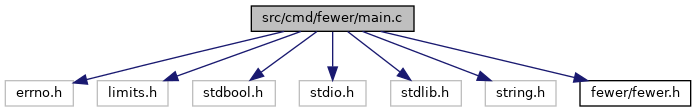
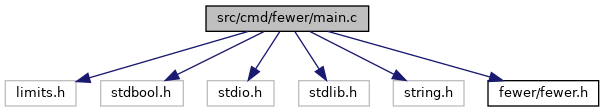
Travis build: 51
Commit: ce00d6d35ad0ffc2abccac958774e3efaf1d5b7c

Changed region(s): [[0.0, 0.2679, 1.0, 0.9643], [0.3278, 0.0268, 0.6258, 0.2946]]

diff --git a/examples/fewer/fewer_8h.html b/examples/fewer/fewer_8h.html
@@ -86,9 +86,9 @@ This graph shows which files directly or indirectly include this file:</div>
 <table class="memberdecls">
 <tr class="heading"><td colspan="2"><h2 class="groupheader"><a name="func-members"></a>
 Functions</h2></td></tr>
-<tr class="memitem:a0394fd76698db06792c40dd56e7828c9"><td class="memItemLeft" align="right" valign="top">void&#160;</td><td class="memItemRight" valign="bottom"><a class="el" href="fewer_8h.html#a0394fd76698db06792c40dd56e7828c9">render_boi</a> (char *hexpair, unsigned char c)</td></tr>
-<tr class="memdesc:a0394fd76698db06792c40dd56e7828c9"><td class="mdescLeft">&#160;</td><td class="mdescRight">render_boi formats a hexadecimal pair.  <a href="fewer_8h.html#a0394fd76698db06792c40dd56e7828c9">More...</a><br /></td></tr>
-<tr class="separator:a0394fd76698db06792c40dd56e7828c9"><td class="memSeparator" colspan="2">&#160;</td></tr>
+<tr class="memitem:a7e70bab3f533afb7a86574edac155153"><td class="memItemLeft" align="right" valign="top">int&#160;</td><td class="memItemRight" valign="bottom"><a class="el" href="fewer_8h.html#a7e70bab3f533afb7a86574edac155153">render_boi</a> (char *hexpair, unsigned char c)</td></tr>
+<tr class="memdesc:a7e70bab3f533afb7a86574edac155153"><td class="mdescLeft">&#160;</td><td class="mdescRight">render_boi formats a hexadecimal pair.  <a href="fewer_8h.html#a7e70bab3f533afb7a86574edac155153">More...</a><br /></td></tr>
+<tr class="separator:a7e70bab3f533afb7a86574edac155153"><td class="memSeparator" colspan="2">&#160;</td></tr>
 <tr class="memitem:a2279a176f40d204a6c0bba5550c07e35"><td class="memItemLeft" align="right" valign="top">int&#160;</td><td class="memItemRight" valign="bottom"><a class="el" href="fewer_8h.html#a2279a176f40d204a6c0bba5550c07e35">parse_boi</a> (const char *hexpair)</td></tr>
 <tr class="memdesc:a2279a176f40d204a6c0bba5550c07e35"><td class="mdescLeft">&#160;</td><td class="mdescRight">parse_boi reads a hexadecimal pair.  <a href="fewer_8h.html#a2279a176f40d204a6c0bba5550c07e35">More...</a><br /></td></tr>
 <tr class="separator:a2279a176f40d204a6c0bba5550c07e35"><td class="memSeparator" colspan="2">&#160;</td></tr>
@@ -113,22 +113,22 @@ Functions</h2></td></tr>
 <p>parse_boi reads a hexadecimal pair. </p>
 <dl class="params"><dt>Parameters</dt><dd>
   <table class="params">
-    <tr><td class="paramname">hexpair</td><td>hexadecimal pair (2 characters + NULL terminator)</td></tr>
+    <tr><td class="paramname">hexpair</td><td>hexadecimal pair (2 characters + NULL terminator) </td></tr>
   </table>
   </dd>
 </dl>
-<dl class="section return"><dt>Returns</dt><dd>value. -1 indicates an error. </dd></dl>
+<dl class="section return"><dt>Returns</dt><dd>negative value on error, or else a value </dd></dl>
 
 </div>
 </div>
-<a id="a0394fd76698db06792c40dd56e7828c9"></a>
-<h2 class="memtitle"><span class="permalink"><a href="#a0394fd76698db06792c40dd56e7828c9">&#9670;&nbsp;</a></span>render_boi()</h2>
+<a id="a7e70bab3f533afb7a86574edac155153"></a>
+<h2 class="memtitle"><span class="permalink"><a href="#a7e70bab3f533afb7a86574edac155153">&#9670;&nbsp;</a></span>render_boi()</h2>
 
 <div class="memitem">
 <div class="memproto">
       <table class="memname">
         <tr>
-          <td class="memname">void render_boi </td>
+          <td class="memname">int render_boi </td>
           <td>(</td>
           <td class="paramtype">char *&#160;</td>
           <td class="paramname"><em>hexpair</em>, </td>
@@ -151,10 +151,11 @@ Functions</h2></td></tr>
 <dl class="params"><dt>Parameters</dt><dd>
   <table class="params">
     <tr><td class="paramname">hexpair</td><td>buffer (3 bytes) </td></tr>
-    <tr><td class="paramname">c</td><td>value</td></tr>
+    <tr><td class="paramname">c</td><td>value </td></tr>
   </table>
   </dd>
 </dl>
+<dl class="section return"><dt>Returns</dt><dd>negative value on error</dd></dl>
 <dl class="section copyright"><dt>Copyright</dt><dd>2020 YelloSoft </dd></dl>
 
 </div>

diff --git a/examples/fewer/fewer_8c.html b/examples/fewer/fewer_8c.html
@@ -90,9 +90,9 @@ Include dependency graph for fewer.c:</div>
 </div><table class="memberdecls">
 <tr class="heading"><td colspan="2"><h2 class="groupheader"><a name="func-members"></a>
 Functions</h2></td></tr>
-<tr class="memitem:a0394fd76698db06792c40dd56e7828c9"><td class="memItemLeft" align="right" valign="top">void&#160;</td><td class="memItemRight" valign="bottom"><a class="el" href="fewer_8c.html#a0394fd76698db06792c40dd56e7828c9">render_boi</a> (char *hexpair, unsigned char c)</td></tr>
-<tr class="memdesc:a0394fd76698db06792c40dd56e7828c9"><td class="mdescLeft">&#160;</td><td class="mdescRight">render_boi formats a hexadecimal pair.  <a href="fewer_8c.html#a0394fd76698db06792c40dd56e7828c9">More...</a><br /></td></tr>
-<tr class="separator:a0394fd76698db06792c40dd56e7828c9"><td class="memSeparator" colspan="2">&#160;</td></tr>
+<tr class="memitem:a7e70bab3f533afb7a86574edac155153"><td class="memItemLeft" align="right" valign="top">int&#160;</td><td class="memItemRight" valign="bottom"><a class="el" href="fewer_8c.html#a7e70bab3f533afb7a86574edac155153">render_boi</a> (char *hexpair, unsigned char c)</td></tr>
+<tr class="memdesc:a7e70bab3f533afb7a86574edac155153"><td class="mdescLeft">&#160;</td><td class="mdescRight">render_boi formats a hexadecimal pair.  <a href="fewer_8c.html#a7e70bab3f533afb7a86574edac155153">More...</a><br /></td></tr>
+<tr class="separator:a7e70bab3f533afb7a86574edac155153"><td class="memSeparator" colspan="2">&#160;</td></tr>
 <tr class="memitem:a2279a176f40d204a6c0bba5550c07e35"><td class="memItemLeft" align="right" valign="top">int&#160;</td><td class="memItemRight" valign="bottom"><a class="el" href="fewer_8c.html#a2279a176f40d204a6c0bba5550c07e35">parse_boi</a> (const char *hexpair)</td></tr>
 <tr class="memdesc:a2279a176f40d204a6c0bba5550c07e35"><td class="mdescLeft">&#160;</td><td class="mdescRight">parse_boi reads a hexadecimal pair.  <a href="fewer_8c.html#a2279a176f40d204a6c0bba5550c07e35">More...</a><br /></td></tr>
 <tr class="separator:a2279a176f40d204a6c0bba5550c07e35"><td class="memSeparator" colspan="2">&#160;</td></tr>
@@ -117,22 +117,22 @@ Functions</h2></td></tr>
 <p>parse_boi reads a hexadecimal pair. </p>
 <dl class="params"><dt>Parameters</dt><dd>
   <table class="params">
-    <tr><td class="paramname">hexpair</td><td>hexadecimal pair (2 characters + NULL terminator)</td></tr>
+    <tr><td class="paramname">hexpair</td><td>hexadecimal pair (2 characters + NULL terminator) </td></tr>
   </table>
   </dd>
 </dl>
-<dl class="section return"><dt>Returns</dt><dd>value. -1 indicates an error. </dd></dl>
+<dl class="section return"><dt>Returns</dt><dd>negative value on error, or else a value </dd></dl>
 
 </div>
 </div>
-<a id="a0394fd76698db06792c40dd56e7828c9"></a>
-<h2 class="memtitle"><span class="permalink"><a href="#a0394fd76698db06792c40dd56e7828c9">&#9670;&nbsp;</a></span>render_boi()</h2>
+<a id="a7e70bab3f533afb7a86574edac155153"></a>
+<h2 class="memtitle"><span class="permalink"><a href="#a7e70bab3f533afb7a86574edac155153">&#9670;&nbsp;</a></span>render_boi()</h2>
 
 <div class="memitem">
 <div class="memproto">
       <table class="memname">
         <tr>
-          <td class="memname">void render_boi </td>
+          <td class="memname">int render_boi </td>
           <td>(</td>
           <td class="paramtype">char *&#160;</td>
           <td class="paramname"><em>hexpair</em>, </td>

diff --git a/examples/fewer/fewer_8h_source.html b/examples/fewer/fewer_8h_source.html
@@ -71,12 +71,12 @@ $(function() {
 <div class="contents">
 <a href="fewer_8h.html">Go to the documentation of this file.</a><div class="fragment"><div class="line"><a name="l00001"></a><span class="lineno">    1</span>&#160;<span class="preprocessor">#pragma once</span></div>
 <div class="line"><a name="l00002"></a><span class="lineno">    2</span>&#160; </div>
-<div class="line"><a name="l00018"></a><span class="lineno">   18</span>&#160;<span class="keywordtype">void</span> <a class="code" href="fewer_8h.html#a0394fd76698db06792c40dd56e7828c9">render_boi</a>(<span class="keywordtype">char</span> *hexpair, <span class="keywordtype">unsigned</span> <span class="keywordtype">char</span> c);</div>
-<div class="line"><a name="l00019"></a><span class="lineno">   19</span>&#160; </div>
+<div class="line"><a name="l00019"></a><span class="lineno">   19</span>&#160;<span class="keywordtype">int</span> <a class="code" href="fewer_8h.html#a7e70bab3f533afb7a86574edac155153">render_boi</a>(<span class="keywordtype">char</span> *hexpair, <span class="keywordtype">unsigned</span> <span class="keywordtype">char</span> c);</div>
+<div class="line"><a name="l00020"></a><span class="lineno">   20</span>&#160; </div>
 <div class="line"><a name="l00027"></a><span class="lineno">   27</span>&#160;<span class="keywordtype">int</span> <a class="code" href="fewer_8h.html#a2279a176f40d204a6c0bba5550c07e35">parse_boi</a>(<span class="keyword">const</span> <span class="keywordtype">char</span> *hexpair);</div>
 </div><!-- fragment --></div><!-- contents -->
 <div class="ttc" id="afewer_8h_html_a2279a176f40d204a6c0bba5550c07e35"><div class="ttname"><a href="fewer_8h.html#a2279a176f40d204a6c0bba5550c07e35">parse_boi</a></div><div class="ttdeci">int parse_boi(const char *hexpair)</div><div class="ttdoc">parse_boi reads a hexadecimal pair.</div><div class="ttdef"><b>Definition:</b> fewer.c:15</div></div>
-<div class="ttc" id="afewer_8h_html_a0394fd76698db06792c40dd56e7828c9"><div class="ttname"><a href="fewer_8h.html#a0394fd76698db06792c40dd56e7828c9">render_boi</a></div><div class="ttdeci">void render_boi(char *hexpair, unsigned char c)</div><div class="ttdoc">render_boi formats a hexadecimal pair.</div><div class="ttdef"><b>Definition:</b> fewer.c:11</div></div>
+<div class="ttc" id="afewer_8h_html_a7e70bab3f533afb7a86574edac155153"><div class="ttname"><a href="fewer_8h.html#a7e70bab3f533afb7a86574edac155153">render_boi</a></div><div class="ttdeci">int render_boi(char *hexpair, unsigned char c)</div><div class="ttdoc">render_boi formats a hexadecimal pair.</div><div class="ttdef"><b>Definition:</b> fewer.c:11</div></div>
 <!-- start footer part -->
 <hr class="footer"/><address class="footer"><small>
 Generated by &#160;<a href="http://www.doxygen.org/index.html">

diff --git a/examples/palindrome/main_8cpp.html b/examples/palindrome/main_8cpp.html
@@ -71,9 +71,7 @@ $(function() {
 <div class="title">main.cpp File Reference</div>  </div>
 </div><!--header-->
 <div class="contents">
-<div class="textblock"><code>#include &lt;cstdlib&gt;</code><br />
-<code>#include &lt;cstring&gt;</code><br />
-<code>#include &lt;iomanip&gt;</code><br />
+<div class="textblock"><code>#include &lt;iomanip&gt;</code><br />
 <code>#include &lt;iostream&gt;</code><br />
 <code>#include &lt;sstream&gt;</code><br />
 <code>#include &lt;string&gt;</code><br />
@@ -85,16 +83,14 @@ Include dependency graph for main.cpp:</div>
 <div class="dyncontent">
 <div class="center"><img src="main_8cpp__incl.png" border="0" usemap="#src_2cmd_2palindrome_2main_8cpp" alt=""/></div>
 <map name="src_2cmd_2palindrome_2main_8cpp" id="src_2cmd_2palindrome_2main_8cpp">
-<area shape="rect" title=" " alt="" coords="351,5,501,47"/>
-<area shape="rect" title=" " alt="" coords="5,95,71,121"/>
-<area shape="rect" title=" " alt="" coords="95,95,162,121"/>
-<area shape="rect" title=" " alt="" coords="186,95,261,121"/>
-<area shape="rect" title=" " alt="" coords="285,95,365,121"/>
-<area shape="rect" title=" " alt="" coords="389,95,463,121"/>
-<area shape="rect" title=" " alt="" coords="645,169,703,196"/>
-<area shape="rect" title=" " alt="" coords="539,95,636,121"/>
-<area shape="rect" title=" " alt="" coords="660,95,723,121"/>
-<area shape="rect" href="palindrome_8hpp.html" title=" " alt="" coords="747,95,950,121"/>
+<area shape="rect" title=" " alt="" coords="245,5,395,47"/>
+<area shape="rect" title=" " alt="" coords="5,95,80,121"/>
+<area shape="rect" title=" " alt="" coords="104,95,184,121"/>
+<area shape="rect" title=" " alt="" coords="208,95,283,121"/>
+<area shape="rect" title=" " alt="" coords="464,169,523,196"/>
+<area shape="rect" title=" " alt="" coords="358,95,455,121"/>
+<area shape="rect" title=" " alt="" coords="479,95,542,121"/>
+<area shape="rect" href="palindrome_8hpp.html" title=" " alt="" coords="567,95,769,121"/>
 </map>
 </div>
 </div><table class="memberdecls">

diff --git a/examples/fewer/main_8c.html b/examples/fewer/main_8c.html
@@ -71,8 +71,7 @@ $(function() {
 <div class="title">main.c File Reference</div>  </div>
 </div><!--header-->
 <div class="contents">
-<div class="textblock"><code>#include &lt;errno.h&gt;</code><br />
-<code>#include &lt;limits.h&gt;</code><br />
+<div class="textblock"><code>#include &lt;limits.h&gt;</code><br />
 <code>#include &lt;stdbool.h&gt;</code><br />
 <code>#include &lt;stdio.h&gt;</code><br />
 <code>#include &lt;stdlib.h&gt;</code><br />
@@ -83,14 +82,13 @@ Include dependency graph for main.c:</div>
 <div class="dyncontent">
 <div class="center"><img src="main_8c__incl.png" border="0" usemap="#src_2cmd_2fewer_2main_8c" alt=""/></div>
 <map name="src_2cmd_2fewer_2main_8c" id="src_2cmd_2fewer_2main_8c">
-<area shape="rect" title=" " alt="" coords="251,5,414,32"/>
-<area shape="rect" title=" " alt="" coords="5,80,73,107"/>
-<area shape="rect" title=" " alt="" coords="97,80,168,107"/>
-<area shape="rect" title=" " alt="" coords="193,80,275,107"/>
-<area shape="rect" title=" " alt="" coords="299,80,366,107"/>
-<area shape="rect" title=" " alt="" coords="391,80,461,107"/>
-<area shape="rect" title=" " alt="" coords="485,80,556,107"/>
-<area shape="rect" href="fewer_8h.html" title=" " alt="" coords="580,80,691,107"/>
+<area shape="rect" title=" " alt="" coords="206,5,369,32"/>
+<area shape="rect" title=" " alt="" coords="5,80,76,107"/>
+<area shape="rect" title=" " alt="" coords="101,80,183,107"/>
+<area shape="rect" title=" " alt="" coords="207,80,274,107"/>
+<area shape="rect" title=" " alt="" coords="299,80,369,107"/>
+<area shape="rect" title=" " alt="" coords="393,80,464,107"/>
+<area shape="rect" href="fewer_8h.html" title=" " alt="" coords="488,80,599,107"/>
 </map>
 </div>
 </div><table class="memberdecls">

diff --git a/examples/fewer/index.html b/examples/fewer/index.html
@@ -67,7 +67,7 @@ $(function() {
 <div class="contents">
 <div class="textblock"><dl class="section copyright"><dt>Copyright</dt><dd>2020 YelloSoft</dd></dl>
 <p><a class="el" href="fewer_8c.html#a2279a176f40d204a6c0bba5550c07e35">parse_boi</a> reads hexadecimal pairs.</p>
-<p><a class="el" href="fewer_8c.html#a0394fd76698db06792c40dd56e7828c9">render_boi</a> formats hexadecimal pairs. </p>
+<p><a class="el" href="fewer_8c.html#a7e70bab3f533afb7a86574edac155153">render_boi</a> formats hexadecimal pairs. </p>
 </div></div><!-- PageDoc -->
 </div><!-- contents -->
 <!-- start footer part -->

diff --git a/examples/fewer/search/functions_2.js b/examples/fewer/search/functions_2.js
@@ -1,4 +1,4 @@
 var searchData=
 [
-  ['render_5fboi_11',['render_boi',['../fewer_8h.html#a0394fd76698db06792c40dd56e7828c9',1,'render_boi(char *hexpair, unsigned char c):&#160;fewer.c'],['../fewer_8c.html#a0394fd76698db06792c40dd56e7828c9',1,'render_boi(char *hexpair, unsigned char c):&#160;fewer.c']]]
+  ['render_5fboi_11',['render_boi',['../fewer_8h.html#a7e70bab3f533afb7a86574edac155153',1,'render_boi(char *hexpair, unsigned char c):&#160;fewer.c'],['../fewer_8c.html#a7e70bab3f533afb7a86574edac155153',1,'render_boi(char *hexpair, unsigned char c):&#160;fewer.c']]]
 ];

diff --git a/examples/fewer/search/all_3.js b/examples/fewer/search/all_3.js
@@ -1,4 +1,4 @@
 var searchData=
 [
-  ['render_5fboi_5',['render_boi',['../fewer_8h.html#a0394fd76698db06792c40dd56e7828c9',1,'render_boi(char *hexpair, unsigned char c):&#160;fewer.c'],['../fewer_8c.html#a0394fd76698db06792c40dd56e7828c9',1,'render_boi(char *hexpair, unsigned char c):&#160;fewer.c']]]
+  ['render_5fboi_5',['render_boi',['../fewer_8h.html#a7e70bab3f533afb7a86574edac155153',1,'render_boi(char *hexpair, unsigned char c):&#160;fewer.c'],['../fewer_8c.html#a7e70bab3f533afb7a86574edac155153',1,'render_boi(char *hexpair, unsigned char c):&#160;fewer.c']]]
 ];

diff --git a/examples/fewer/globals.html b/examples/fewer/globals.html
@@ -70,8 +70,8 @@ $(function() {
 , <a class="el" href="fewer_8c.html#a2279a176f40d204a6c0bba5550c07e35">fewer.c</a>
 </li>
 <li>render_boi()
-: <a class="el" href="fewer_8h.html#a0394fd76698db06792c40dd56e7828c9">fewer.h</a>
-, <a class="el" href="fewer_8c.html#a0394fd76698db06792c40dd56e7828c9">fewer.c</a>
+: <a class="el" href="fewer_8h.html#a7e70bab3f533afb7a86574edac155153">fewer.h</a>
+, <a class="el" href="fewer_8c.html#a7e70bab3f533afb7a86574edac155153">fewer.c</a>
 </li>
 </ul>
 </div><!-- contents -->

diff --git a/examples/fewer/globals_func.html b/examples/fewer/globals_func.html
@@ -70,8 +70,8 @@ $(function() {
 , <a class="el" href="fewer_8c.html#a2279a176f40d204a6c0bba5550c07e35">fewer.c</a>
 </li>
 <li>render_boi()
-: <a class="el" href="fewer_8h.html#a0394fd76698db06792c40dd56e7828c9">fewer.h</a>
-, <a class="el" href="fewer_8c.html#a0394fd76698db06792c40dd56e7828c9">fewer.c</a>
+: <a class="el" href="fewer_8h.html#a7e70bab3f533afb7a86574edac155153">fewer.h</a>
+, <a class="el" href="fewer_8c.html#a7e70bab3f533afb7a86574edac155153">fewer.c</a>
 </li>
 </ul>
 </div><!-- contents -->

diff --git a/README.md b/README.md
@@ -1,1 +1,1 @@
-Fri 27 Aug 2021 10:37:53 PM UTC
+Wed 08 Sep 2021 06:50:12 PM UTC
